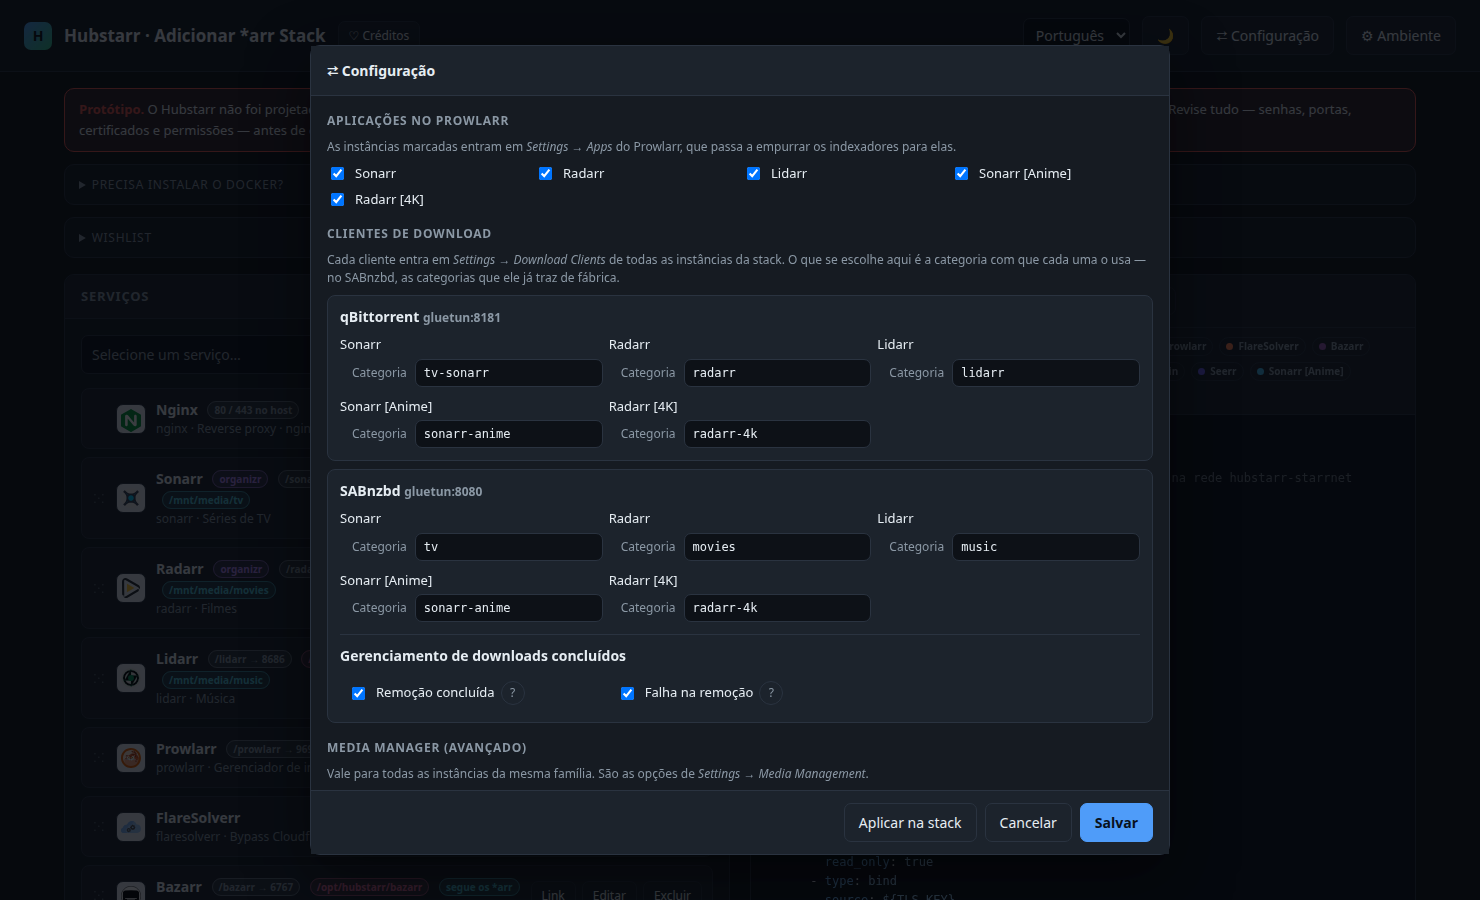
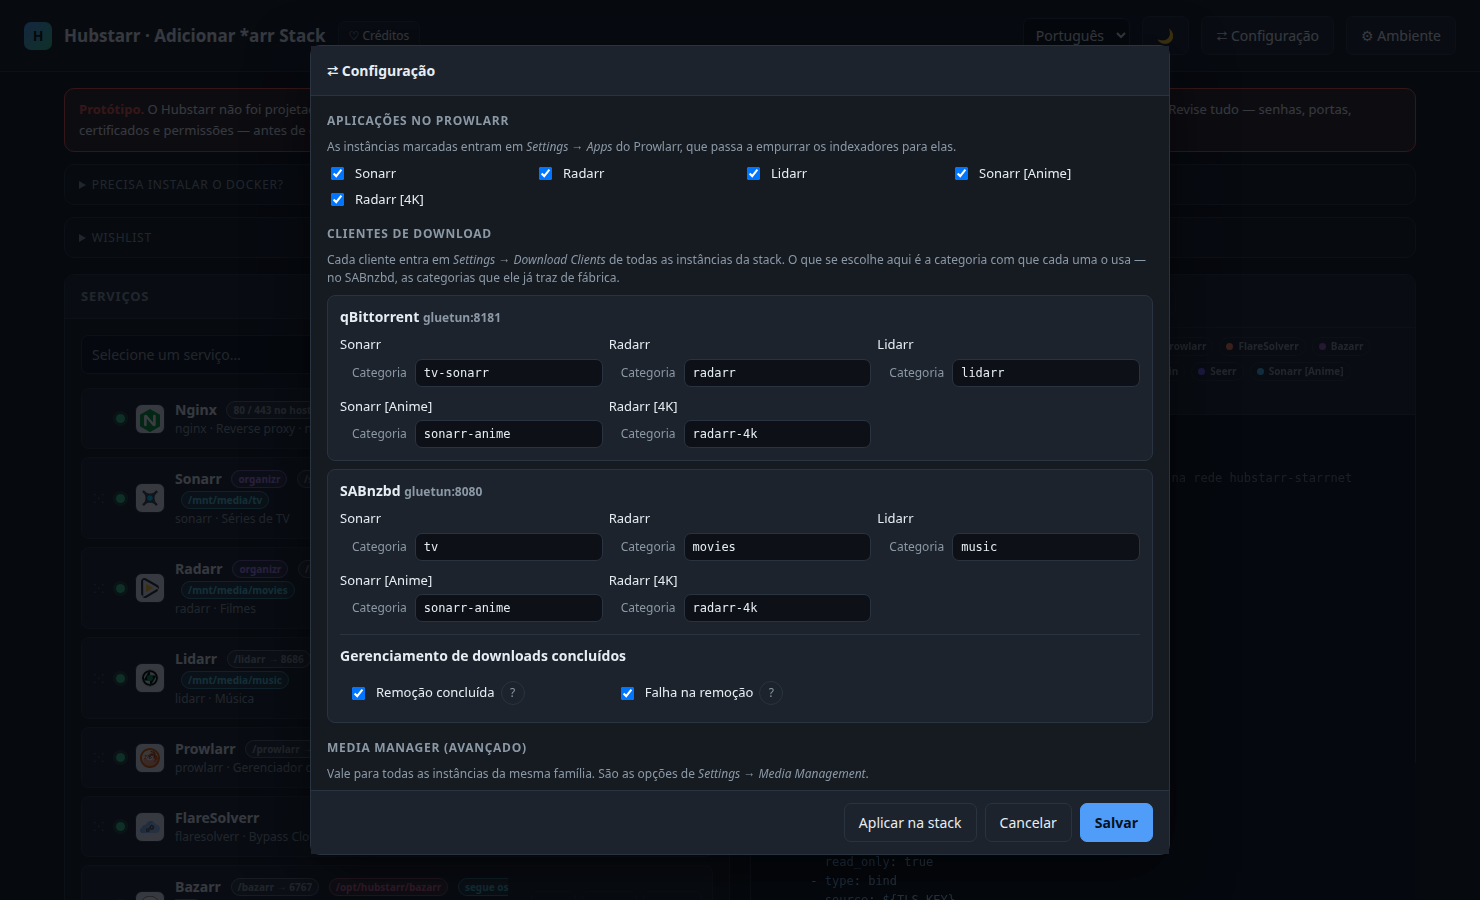
Mostra os pontos de status nas capturas que têm servidor
A config.png já mostrava o "Aplicar na stack", que só existe com a stack no ar,
ao lado de uma lista sem ponto nenhum. O srvOn é o que os revela, e o STATUS
passa a sair do próprio added. A services.png foi para 1480×1000 porque o
dropdown aberto cobre a lista e é abaixo dele que as linhas aparecem.

Claude-Session: https://claude.ai/code/session_014ihpWfvKJzSbyFuoZQoaD5

diff --git a/.claude/skills/docs-screenshots/SKILL.md b/.claude/skills/docs-screenshots/SKILL.md
@@ -13,7 +13,10 @@ estão no tema escuro), o `added` da stack de exemplo,
 `$('#combo').classList.add('open')`, `openModal('sonarr',null)` mais
 `openShot()` na da paleta, `openCred()` na dos créditos, `openCfg()` mais o `scrollTop` do `#cfgBody` na
 da Configuração (e um `SERVER` de mentira mais um `STATUS` com algum
-container `running`, senão o "Aplicar na stack" não aparece) — e rode:
+container `running`, senão o "Aplicar na stack" não aparece; o `STATUS` sai do
+próprio `added`, e o `body.classList.add('srvOn')` é o que revela os **pontos de
+status** da lista — sem ele a captura mostrava um "Aplicar na stack", que só
+existe com servidor, ao lado de uma lista sem ponto nenhum) — e rode:
 
 ```sh
 chromium-browser --headless=new --no-sandbox --disable-gpu --hide-scrollbars \
@@ -26,10 +29,11 @@ Duas coisas que a `screenshot.png` pede além disso: **forçar o idioma** com um
 captura anterior em outro idioma contamina a próxima, em silêncio — e abrir a
 Wishlist pelo `open` do `<details>` dela, deixando o bloco do Docker fechado.
 
-`services.png`, `theme.png` e `credits.png` são 1480×760, a `config.png` e a
-`browse.png` são 1480×900 — os modais são densos e em 760 não caberia o que
-mostram — e a `screenshot.png` acompanha a altura do conteúdo (hoje 1888, com a
-Wishlist aberta).
+`theme.png` e `credits.png` são 1480×760, a `config.png` e a `browse.png` são
+1480×900 — os modais são densos e em 760 não caberia o que mostram —, a
+`services.png` é 1480×1000, porque o dropdown aberto cobre a lista e é abaixo
+dele que aparecem as linhas com o ponto de status, e a `screenshot.png`
+acompanha a altura do conteúdo (hoje 1888, com a Wishlist aberta).
 
 A `browse.png` é o navegador de pastas por cima do Ambiente e pede duas coisas
 próprias: um `document.body.classList.add('srvOn')`, que é o que revela o `📁`,
